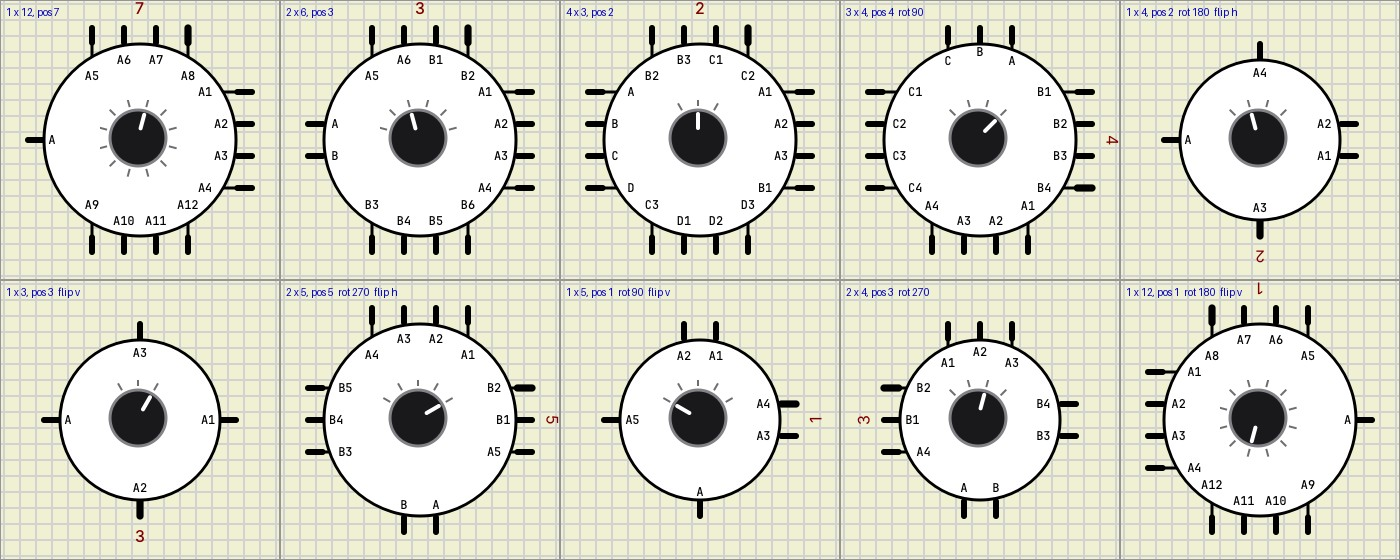
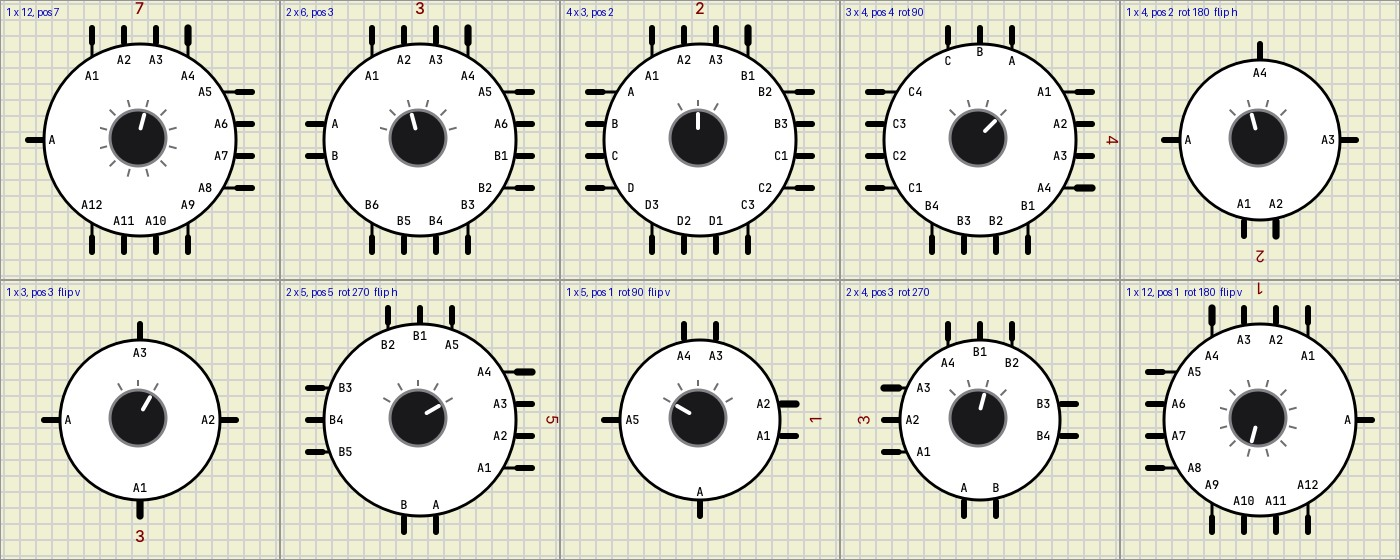
Rotary switch part: the throws run clockwise as the deck's pins are numbered (top from the left, down the right, bottom from the right); test, help, docs and demo follow

diff --git a/tests/regress/test_rotary_switch.py b/tests/regress/test_rotary_switch.py
@@ -1,6 +1,7 @@
 """Rotary switch part (docs/ROTARY_SWITCH.md): the contacts in every position, 1 to 4 poles,
-3 to 12 positions and their limits, the contact resistance, the timing of a step (break before
-make, make before break, bounce), the knob (click, dial), save and reopen, going back in time.
+3 to 12 positions and their limits, the throws clockwise, the contact resistance, the timing of a
+step (break before make, make before break, bounce), the knob (click, dial), save and reopen,
+going back in time.
 
 Expected values are Ohm's law on the test circuit (5 V through 100 Ohm into the common, 1 kOhm
 from every throw to ground: the made throw sits at 5 x 1000 / 1100 = 4.5455 V, the others at
@@ -350,10 +351,28 @@ def section_looks(sim):
                 check_throws(sim, where, poles, positions, 1)
 
 
+def section_clockwise(sim):
+    # The throws run clockwise, as the pins are numbered on the deck seen from its pins: along the
+    # top from left to right, down the right side, then along the bottom from right to left. The
+    # commons stay on the left
+    c = sim.cli
+    for poles, positions in [(1, 3), (1, 4), (1, 5), (2, 3), (2, 4), (2, 5), (1, 12), (2, 6), (3, 4), (4, 3)]:
+        c("circuit", "new", "--discard")
+        c("comp", "add", "RotarySwitch", "--label", "SW", "--at", "0,0", "Poles=%d" % poles, "Positions=%d" % positions)
+        pos = {p["label"]: p["pos"] for p in c("comp", "get", "SW")["pins"] if p["label"] in throws(poles, positions)}
+        on = {s: [t for t in pos if (s == "top" and pos[t][1] < -24 or s == "bottom" and pos[t][1] > 24
+                                      or s == "right" and pos[t][0] > 24)] for s in ("top", "right", "bottom")}
+        top = sorted(on["top"], key=lambda t: pos[t][0])
+        right = sorted(on["right"], key=lambda t: pos[t][1])
+        bottom = sorted(on["bottom"], key=lambda t: pos[t][0], reverse=True)
+        flag(sim, "%d x %d: the throws clockwise: top, right, bottom from the right" % (poles, positions),
+             top + right + bottom == throws(poles, positions) and len(top) + len(right) + len(bottom) == poles * positions)
+
+
 def test(sim):
     for name, fn in [("contacts", section_contacts), ("poles", section_poles), ("limits", section_limits),
                      ("resistance", section_resistance), ("timing", section_timing), ("save", section_save),
-                     ("back", section_back), ("looks", section_looks)]:
+                     ("back", section_back), ("clockwise", section_clockwise), ("looks", section_looks)]:
         if want(name):
             fn(sim)
 

diff --git a/src/gui/circuitwidget/components/switches/rotaryswitch.cpp b/src/gui/circuitwidget/components/switches/rotaryswitch.cpp
@@ -380,9 +380,9 @@ void RotarySwitch::setupPins()
 
     int P = m_poles, N = m_positions, T = P*N;
 
-    int nRight  = ( T+2 )/3;                       // The throws: the right, the top, the bottom
-    int nTop    = ( T-nRight+1 )/2;
-    int nBottom = T - nRight - nTop;
+    int nTop    = ( T+2 )/3;                       // The throws, clockwise as on the deck: along the top from left to
+    int nRight  = ( T-nTop+1 )/2;                  //   right, down the right side, then along the bottom from right to
+    int nBottom = T - nTop - nRight;               //   left, as even as the count allows, the top taking the remainder first
 
     int end = pinEnd( P, nRight, nTop, nBottom );
     m_radius = end - 8;
@@ -392,9 +392,9 @@ void RotarySwitch::setupPins()
         addPin( 180, QPoint( -end, rowOffset( p, P ) ), QString( POLES[p] ), p );
 
     int t = 0;
-    for( int i=0; i<nRight;  ++i, ++t ) addPin( 0,   QPoint(  end, rowOffset( i, nRight ) ),   throwName( t, N ), P+t );
-    for( int i=0; i<nTop;    ++i, ++t ) addPin( 90,  QPoint( rowOffset( i, nTop ),    -end ),  throwName( t, N ), P+t );
-    for( int i=0; i<nBottom; ++i, ++t ) addPin( 270, QPoint( rowOffset( i, nBottom ),  end ),  throwName( t, N ), P+t );
+    for( int i=0; i<nTop;    ++i, ++t ) addPin( 90,  QPoint( rowOffset( i, nTop ),            -end ),  throwName( t, N ), P+t );
+    for( int i=0; i<nRight;  ++i, ++t ) addPin( 0,   QPoint(  end, rowOffset( i, nRight ) ),          throwName( t, N ), P+t );
+    for( int i=0; i<nBottom; ++i, ++t ) addPin( 270, QPoint( rowOffset( nBottom-1-i, nBottom ), end ), throwName( t, N ), P+t );
 
     m_contact.resize( T );
     m_ePin.resize( 2*T );

diff --git a/src/gui/circuitwidget/components/switches/rotaryswitch.h b/src/gui/circuitwidget/components/switches/rotaryswitch.h
@@ -58,8 +58,9 @@ class RotaryKnob : public QDial
 
 // Rotary switch (docs/ROTARY_SWITCH.md): 1 to 4 poles, 3 to 12 positions, 30° per detent, as
 // the SR25 / SR26 deck (poles × positions at most 12: one contact per pole and position). A
-// round body with the knob in the middle; the commons on the left, the throws on the right,
-// the top and the bottom, each with its name inside the rim, horizontal whatever side it is on
+// round body with the knob in the middle; the commons on the left, the throws clockwise as on
+// the deck (the top from the left, down the right side, the bottom from the right), each with
+// its name inside the rim, horizontal whatever side it is on
 // and however the part is turned or flipped. Each contact is a resistor (Contact_Res) from its pole's common to
 // its throw. While running, a step has the switch's timing: break before make after
 // Transit_Time, or make before break with the other contact opening after Overlap_Time, and

diff --git a/docs/ROTARY_SWITCH.md b/docs/ROTARY_SWITCH.md
@@ -19,21 +19,21 @@ The `Rotary_SW4`, `Rotary_SW8` and `Rotary_SW16` of Logic / Tools are something 
 
 ## Pins and look
 
-A round body with the knob in the middle. The commons are the pins on the left. The throws are named after their pole and position (`A1`, `A2`, ... `B1`, ...) and placed, in that order, on the right, the top and the bottom: as even as the count allows, the right taking the remainder first. Each name lies inside the rim next to its pin, horizontal whatever side the pin is on.
+A round body with the knob in the middle. The commons are the pins on the left. The throws are named after their pole and position (`A1`, `A2`, ... `B1`, ...) and placed, in that order, clockwise, as the pins are numbered on the deck seen from its pins: along the top from left to right, down the right side, then along the bottom from right to left. They are spread as even as the count allows, the top taking the remainder first. Each name lies inside the rim next to its pin, horizontal whatever side the pin is on.
 
-| Poles × positions | Right | Top | Bottom | Body |
+| Poles × positions | Top, from the left | Right, from the top | Bottom, from the right | Body |
 |---|---|---|---|---|
 | 1 × 3 | A1 | A2 | A3 | 80 px |
 | 1 × 4 | A1, A2 | A3 | A4 | 80 px |
 | 1 × 5 | A1, A2 | A3, A4 | A5 | 80 px |
 | 1 × 6, 2 × 3 | 2 | 2 | 2 | 80 px |
-| 2 × 4 | A1, A2, A3 | A4, B1, B2 | B3, B4 | 80 px |
-| 2 × 5 | A1–A4 | A5, B1, B2 | B3, B4, B5 | 96 px |
+| 2 × 4 | A1, A2, A3 | A4, B1, B2 | B4, B3 | 80 px |
+| 2 × 5 | A1–A4 | A5, B1, B2 | B5, B4, B3 | 96 px |
 | 1 × 12, 2 × 6, 3 × 4, 4 × 3 | 4 | 4 | 4 | 96 px |
 
 Pins on a side are 16 px apart; a wire connects 8 px outside the body. The body is 80 px across, or 96 when a side carries 4 pins (also with 4 poles): then the names of two neighbouring sides do not meet in their corner.
 
-![Ten switches: 1×12, 2×6, 4×3, 3×4 turned 90°, 1×4 turned 180° and flipped, 1×3 flipped, 2×5, 1×5, 2×4, 1×12: the knob stays in the middle and upright, the names stay horizontal](ROTARY_SWITCH.jpg)
+![Ten switches: 1×12, 2×6, 4×3, 3×4 turned 90°, 1×4 turned 180° and flipped, 1×3 flipped, 2×5, 1×5, 2×4, 1×12: the throws run clockwise, the knob stays in the middle and upright, the names stay horizontal](ROTARY_SWITCH.jpg)
 
 The knob is a dial widget of 40 px. Its pointer stands at −(positions − 1) × 15° + 30° × (position − 1), clockwise from 12 o'clock: the sweep is centred on 12 o'clock, with a tick per detent. However the part is turned or flipped, the knob stays in the middle of the body, upright and unmirrored, and the names stay horizontal and unmirrored (they sit where their pins are). An item in Qt turns about its `transformOriginPoint` and mirrors about its corner; the part undoes its own turn and mirror on each of them (`placeLabels()`, `placeKnob()`).
 
@@ -69,5 +69,5 @@ The simulator keeps one event per element, so the part has one timer: it is canc
 
 ## Tests and demo
 
-- `tests/regress/test_rotary_switch.py` (186 checks): the contacts in every position for 1 × 3, 1 × 4, 1 × 12, 2 × 6, 3 × 4 and 4 × 3; the limits of poles and positions; the contact resistance; the timing of a step (transit, overlap, chatter at the make and at the break, two quick steps); save and reopen; a `Key`; saved key frames and `sim history check`; the knob's place and the pins' grid in 24 turn and flip states.
+- `tests/regress/test_rotary_switch.py` (196 checks): the contacts in every position for 1 × 3, 1 × 4, 1 × 12, 2 × 6, 3 × 4 and 4 × 3; the limits of poles and positions; the throws clockwise in ten settings; the contact resistance; the timing of a step (transit, overlap, chatter at the make and at the break, two quick steps); save and reopen; a `Key`; saved key frames and `sim history check`; the knob's place and the pins' grid in 24 turn and flip states.
 - `tests/circuits/rotary_switch_lights.sim1`: the lights of the microscope (12 V, two LEDs of 330 Ω each, off / LED 1 / LED 2 / both).
